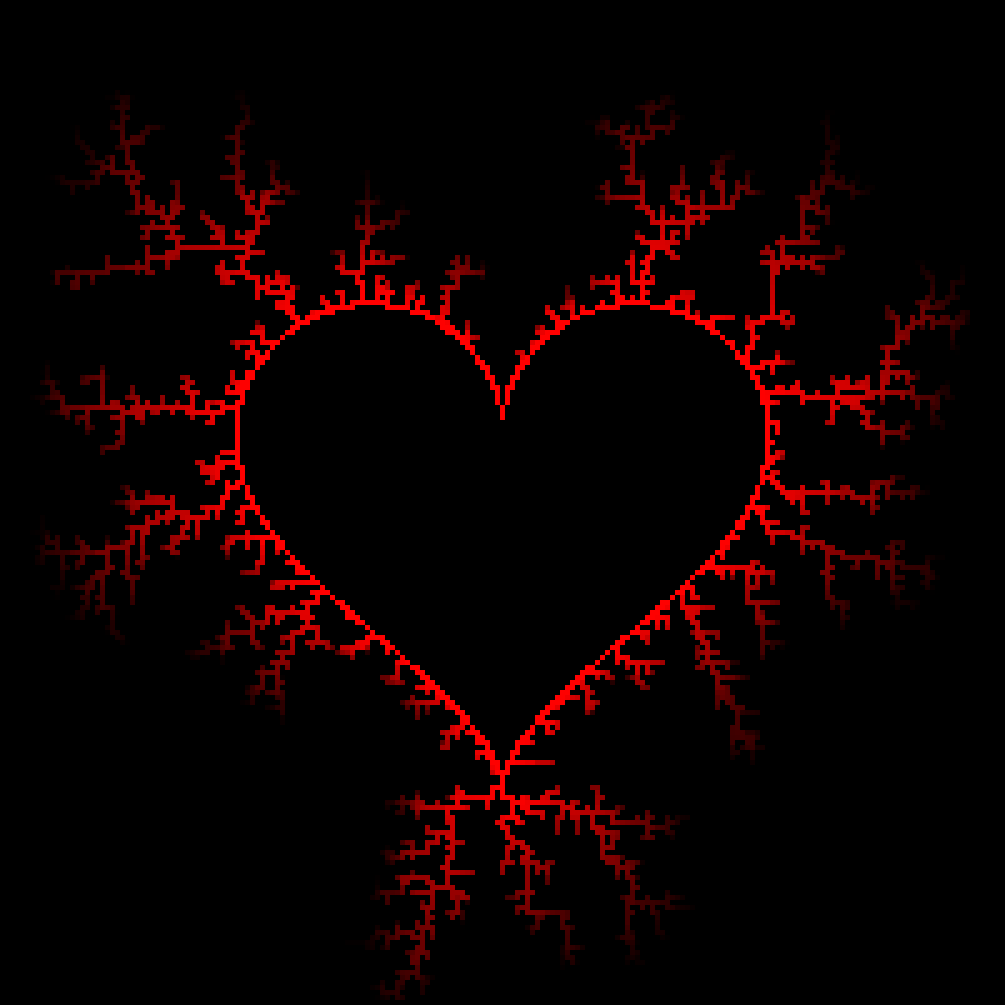
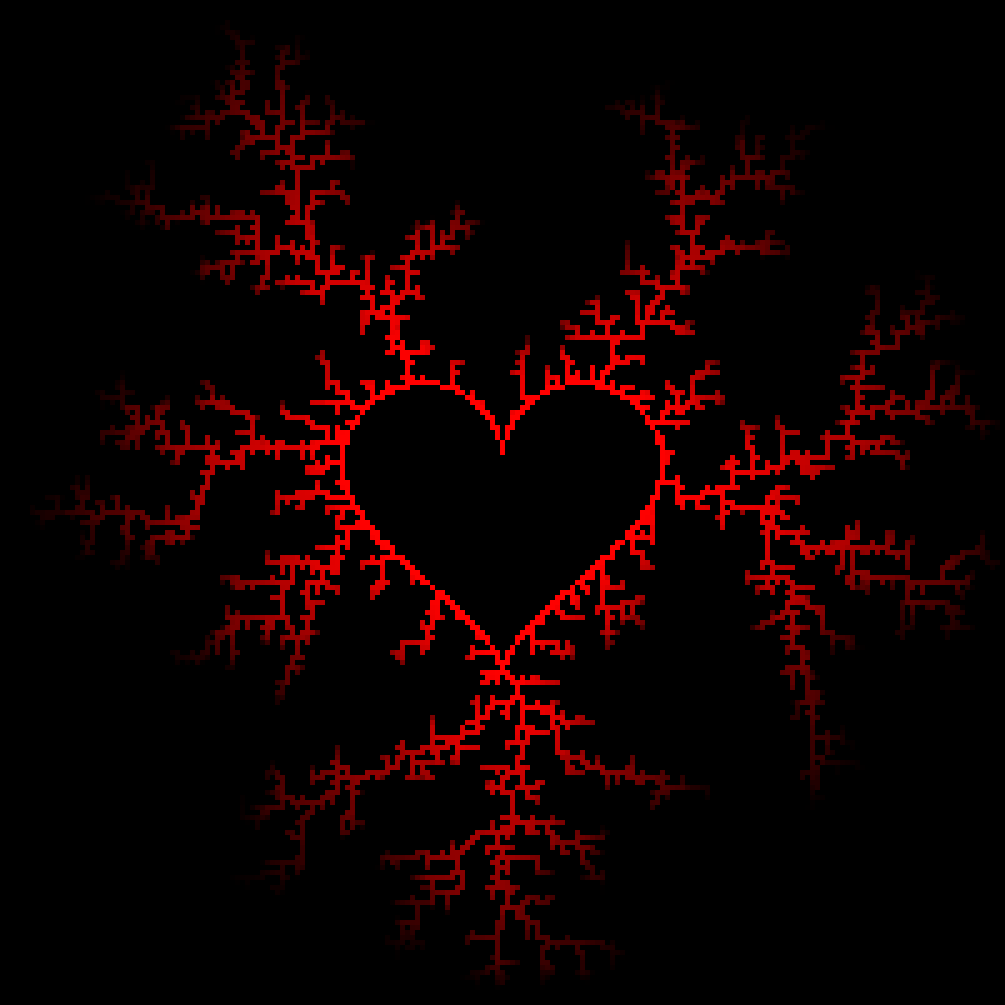
got some better coordinate abstraction going on

Changed region(s): [[0.0308, 0.0308, 0.9871, 1.0]]

diff --git a/DLA/dla.go b/DLA/dla.go
@@ -72,13 +72,39 @@ var CARDINALS = []Point{
 	{row: -1, col: 0},
 }
 
+func mid_point(size int) Point {
+	// mid := (size - 1) / 2
+
+	return Point{row: 0, col: 0}
+}
+
+func real_mid_point(size int) Point {
+
+	mid := (size - 1) / 2
+
+	return Point{row: mid, col: mid}
+}
+
 func add_points(p1, p2 Point) Point {
 	return Point{row: p1.row + p2.row, col: p1.col + p2.col}
 }
 
-func (p Point) add(p2 Point) {
+func (p *Point) add(p2 Point) {
 	p.row += p2.row
 	p.col += p2.col
+}
+
+func (p *Point) flip() {
+	p.row *= -1
+	p.col *= -1
+}
+
+func abs(x int) int {
+	return max(x, x*-1)
+}
+
+func (p *Point) radius() int {
+	return max(abs(p.row), abs(p.col))
 }
 
 type Walker struct {
@@ -92,7 +118,8 @@ type Model struct {
 	p        float64
 	people   int
 	infected int
-	time     int
+	radius   int
+	distance int
 }
 
 // func remove[T any](slice []T, s int) []T {
@@ -149,9 +176,6 @@ func gen_heart_grid(size int, radius float64) Grid {
 
 	grid := gen_grid(size)
 
-	mid := (size - 1) / 2
-	mid_point := Point{row: mid, col: mid}
-
 	points := 1000
 
 	for i := range points {
@@ -160,7 +184,7 @@ func gen_heart_grid(size int, radius float64) Grid {
 		x, y := heart_equation(t)
 		point := Point{col: int(math.Round(x * radius)), row: int(math.Round(y * radius))}
 
-		real_point := add_points(point, mid_point)
+		real_point := add_points(point, mid_point(size))
 
 		*grid.index(real_point) = Filled
 
@@ -178,18 +202,30 @@ func gen_heart_grid(size int, radius float64) Grid {
 
 }
 
-func (g Grid) index(point Point) *SiteState {
+func (g Grid) raw_index(point Point) *SiteState {
 	return &g[point.row][point.col]
 }
 
-func (g *Grid) is_valid_point(point Point) bool {
-	size := len(*g)
+func (g Grid) index(point Point) *SiteState {
+	real_point := add_points(point, real_mid_point(len(g)))
 
-	if point.row >= 0 && point.row < size && point.col >= 0 && point.col < size {
+	return &g[real_point.row][real_point.col]
+}
+
+func (g *Grid) is_valid_point(point Point) bool {
+	radius := len(*g) / 2
+
+	if point.row >= -radius && point.row <= radius && point.col >= -radius && point.col <= radius {
 		return true
 	} else {
 		return false
 	}
+
+	// if point.row >= 0 && point.row < size && point.col >= 0 && point.col < size {
+	// 	return true
+	// } else {
+	// 	return false
+	// }
 }
 
 func (g *Grid) print_grid() {
@@ -238,19 +274,18 @@ func random_step(r *rand.Rand) Point {
 
 }
 
-func init_model(size int, p float64) Model {
+func init_model(size int, p float64, distance int) Model {
 
 	if size%2 == 0 {
 		panic("grid size must be odd you doofus")
 	}
 
-	// mid := (size - 1) / 2
-
-	// middle := Point{row: mid, col: mid}
+	if distance <= 0 {
+		panic("spawning distacne must be non-negative")
+	}
 
 	// grid := gen_grid(size)
-	//
-	// *grid.index(middle) = 1
+	// *grid.index(mid_point(size)) = 1
 
 	heart_radius := 30.0
 	grid := gen_heart_grid(size, heart_radius)
@@ -266,28 +301,37 @@ func init_model(size int, p float64) Model {
 		p:        p,
 		people:   size * size,
 		infected: 1,
+		radius:   0,
+		distance: 10,
 	}
 
 	return model
+
 }
 
 func (m *Model) random_start(r *rand.Rand) Point {
 	value := int(r.Float64() * float64(m.size))
+	value -= m.size / 2
+	spawn_radius := m.radius + m.distance
 
 	side := r.Int31n(4)
 
+	var point Point
+
 	switch side {
 	case 0:
-		return Point{row: value, col: 0}
+		point = Point{row: value, col: -spawn_radius}
 	case 1:
-		return Point{row: value, col: m.size - 1}
+		point = Point{row: value, col: spawn_radius}
 	case 2:
-		return Point{row: 0, col: value}
+		point = Point{row: -spawn_radius, col: value}
 	case 3:
-		return Point{row: m.size - 1, col: value}
+		point = Point{row: spawn_radius, col: value}
 	default:
 		panic("erm")
 	}
+
+	return point
 }
 
 func (m *Model) countNeibors(point Point) int {
@@ -303,7 +347,8 @@ func (m *Model) countNeibors(point Point) int {
 }
 
 func (m *Model) onPerimeter(point Point) bool {
-	if point.row == 0 || point.row == m.size-1 || point.col == 0 || point.col == m.size-1 {
+	radius := m.size / 2
+	if point.row == -radius || point.row == radius || point.col == -radius || point.col == radius {
 		return true
 	} else {
 		return false
@@ -335,23 +380,34 @@ func (m *Model) tick(r *rand.Rand) bool {
 		}
 
 		neihbors := m.countNeibors(new_point)
-		if neihbors > 0 {
-			*m.grid.index(new_point) = SiteState(m.time)
-			// *m.grid.index(new_point) = Filled
-			m.infected++
+		for range neihbors {
+			if r.Float64() <= m.p {
+				*m.grid.index(new_point) = SiteState(m.infected)
+				// *m.grid.index(new_point) = Filled
+				m.infected++
 
-			break
+				if new_point.radius() > m.radius {
+					m.radius = new_point.radius()
+				}
+
+				if m.radius+m.distance >= m.size/2 {
+					return true
+				} else {
+					return false
+				}
+
+				if m.onPerimeter(new_point) {
+					return true
+				} else {
+					return false
+				}
+
+			}
 		}
 
 	}
-
-	m.time++
-
-	if m.onPerimeter(new_point) {
-		return true
-	} else {
-		return false
-	}
+	fmt.Println("shouldnt reach this")
+	return true
 
 }
 
@@ -553,8 +609,9 @@ func cast_to_float(input []any) ([]float64, error) {
 
 func one_trial() {
 	size := 201
-	p := 0.2
-	model := init_model(size, p)
+	p := 1.0
+	distance := 10
+	model := init_model(size, p, distance)
 	r := rand.New(rand.NewSource(time.Now().UnixNano()))
 	// tps := 1
 
@@ -605,7 +662,8 @@ func pretty_picture(model Model, name string, scale int) {
 			if grid[x][y] == Empty {
 				color = StateColor[Empty]
 			} else {
-				color = calc_color(float64(grid[x][y]) / float64(model.time))
+				// color = StateColor[Filled]
+				color = calc_color(float64(grid[x][y]) / float64(model.infected))
 			}
 
 			for i := range scale {
@@ -642,11 +700,13 @@ func pretty_picture(model Model, name string, scale int) {
 	encoder.SetIndent("", "  ")
 	// encoder.Encode(model)
 	encoder.Encode(struct {
-		Time       int `json:"time"`
-		Infected   int `json:"infected"`
-		Population int `json:"population"`
+		P          float64 `json:"p"`
+		Size       int     `json:"size"`
+		Infected   int     `json:"infected"`
+		Population int     `json:"population"`
 	}{
-		model.time,
+		model.p,
+		model.size,
 		model.infected,
 		model.people,
 	})
